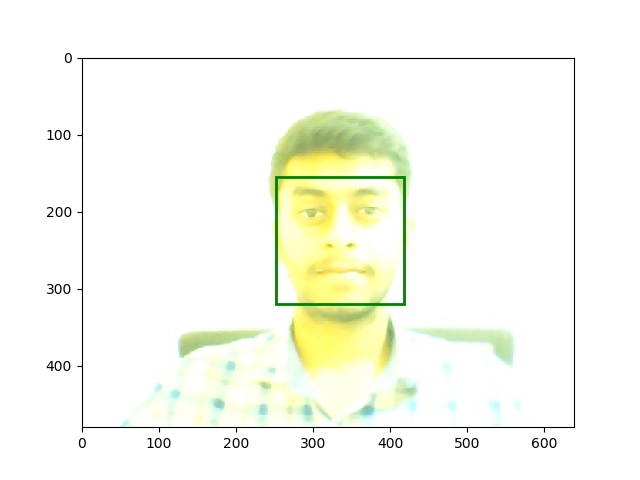
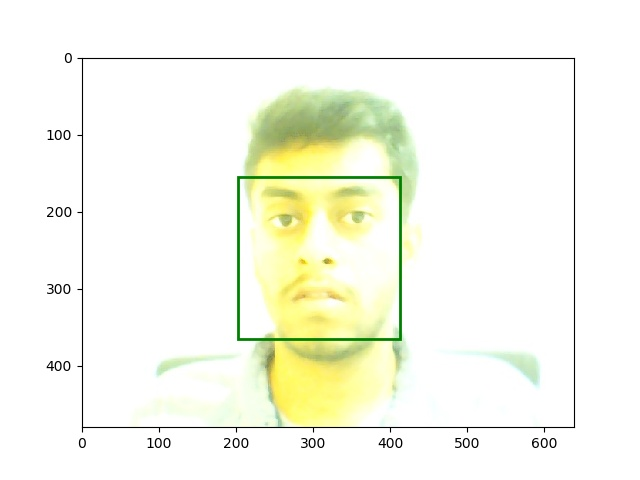
face identify integrated into django and working

diff --git a/mysite/main/templates/main/home.html b/mysite/main/templates/main/home.html
@@ -7,21 +7,29 @@
     <script src="https://cdnjs.cloudflare.com/ajax/libs/materialize/1.0.0/js/materialize.min.js"></script>
             
     <nav>
-        <div class="nav-wrapper">
-        <a href="#" class="brand-logo">Microsoft-Face</a>
-        <ul id="nav-mobile" class="right hide-on-med-and-down">
+        <div class="nav-wrapper blue darken-2" co>
+        <a href="#!" class="brand-logo center">Microsoft-Face-Api</a>
+        
             {% if user.is_authenticated %}
-                <li><a href="http://127.0.0.1:8000">home</a></li>
-                <li><a href="http://127.0.0.1:8000/logout">Logout</a></li>
-                <li><a href="http://127.0.0.1:8000/capture">capture</a></li>
-                <li><a href="http://127.0.0.1:8000/detect">detect</a></li>
+            <ul id="nav-mobile" class="left hide-on-med-and-down" >
+                <li ><a href="http://127.0.0.1:8000">Home</a></li>
+                <li ><a href="http://127.0.0.1:8000/capture">Capture</a></li>
+                <li ><a href="http://127.0.0.1:8000/detect">Detect</a></li>
+            </ul>
+            <ul id="nav-mobile" class="right hide-on-med-and-down">
+                <li ><a href="http://127.0.0.1:8000/logout">Logout</a></li>
+            </ul>
             {% else %}
-                <li><a href="http://127.0.0.1:8000/register">Register</a></li>
-                <li><a href="http://127.0.0.1:8000/login">Login</a></li>
+            <ul id="nav-mobile" class="left hide-on-med-and-down">
+                <li ><a href="http://127.0.0.1:8000/login">Login</a></li>
+                <li ><a href="http://127.0.0.1:8000/register">Register</a></li>
+            </ul>
             {% endif %}
-        </ul>
+        
         </div>
     </nav>
+    
+  
     {% if messages %}
         {% for message in messages%}
             {% if message.tags == 'success'%}

diff --git a/mysite/main/templates/main/capture.html b/mysite/main/templates/main/capture.html
@@ -1,12 +1,6 @@
 {% extends "main/home.html" %}
 {% block content %}
-<form method ='post' enctype="multipart/form-data">
-{% csrf_token %}
-<div id="mydiv1">
-    <p>Take picture</p>
-    <!-- <input type="file" name ="document"> -->
 
-</div>
 
 <form action="#" method="get">
     <input type="text" value="8" name="mytextbox" size="1"/>

diff --git a/mysite/main/templates/main/image.html b/mysite/main/templates/main/image.html
@@ -1,0 +1,10 @@
+{% extends "main/home.html" %}
+{% block content %}
+<img src="../../../media/image from button.jpeg" alt="result" width="500" height="333">
+
+
+<form action= 'process/' method ="GET">
+  <button type="submit">submit image</button>
+</form> 
+    {% endblock %}
+    

diff --git a/mysite/main/templates/main/capture2.html b/mysite/main/templates/main/capture2.html
@@ -1,0 +1,10 @@
+{% extends "main/home.html" %}
+{% block content %}
+    <form action= 'image/' method ="GET">
+      <button type="submit">capture image</button>
+    </form>
+
+
+
+    {% endblock %}
+    

diff --git a/mysite/main/templates/main/home2.html b/mysite/main/templates/main/home2.html
@@ -1,0 +1,7 @@
+{% extends "main/home.html" %}
+{% block content %}
+
+<form action= 'image/' method ="GET">
+    <button type="submit">capture image</button>
+  </form>
+  {% endblock %}

diff --git a/mysite/main/templates/main/results.html b/mysite/main/templates/main/results.html
@@ -1,0 +1,6 @@
+{% extends "main/home.html" %}
+
+{% block content %}
+The face is detected {{ detected_faceId }}
+____ The confidence is {{ confidence }}
+  {% endblock %}

diff --git a/mysite/main/templates/main/details.html b/mysite/main/templates/main/details.html
@@ -1,0 +1,2 @@
+{% extends "main/home.html" %}
+<button type="submit">submit image</button>

diff --git a/mysite/main/views.py b/mysite/main/views.py
@@ -10,25 +10,16 @@ import matplotlib.image as mpimg
 import matplotlib.pyplot as plt
 import matplotlib.patches as patches
 from pandas.io.json import json_normalize
+import cognitive_face as cf
 
-
+cf.util.requests.ConnectTimeout = 1
 subscription_key = '0b138b19f25a45379d64a4739b16aaf7'
-
-face_api_url = 'https://southeastasia.api.cognitive.microsoft.com/face/v1.0/detect'
-
-
-headers = {'Content-Type': 'application/octet-stream', 
-           'Ocp-Apim-Subscription-Key': subscription_key}
-    
-params = {
-    'returnFaceId': 'true',
-    'returnFaceLandmarks': 'false',
-    'returnFaceAttributes': 'age,gender,headPose,smile,facialHair,glasses,emotion,hair,makeup,occlusion,accessories,blur,exposure,noise',
-}
-
+base_url = 'https://southeastasia.api.cognitive.microsoft.com/face/v1.0'
+cf.Key.set(subscription_key)
+cf.BaseUrl.set(base_url)
 
 def homepage(request):
-    return render(request,'main/home.html')
+    return render(request,'main/home2.html')
 
 def register(request):
     if request.method == "POST":
@@ -128,3 +119,75 @@ def detect(request):
 
             } 
                 )            
+
+
+#################################################################
+#            Code Under Test
+
+def process(request):
+     if not len(cf.person_group.lists()) == 0:
+         face_detect = cf.face.detect('media/image from button.jpeg')
+         response = cf.face.identify([face_detect[0]['faceId']],person_group_id='group_1')
+         r2 = response[0]['candidates']
+         if len(r2)>0:
+            df_r = json_normalize(r2)
+            print(response)
+            df_r.sort_values('confidence',ascending=False,inplace=True)
+            if df_r['confidence'][0]>0.70:
+                return render(request,'main/results.html',
+                {
+                    'detected_faceId': df_r['personId'][0] ,
+                    'confidence': df_r['confidence'][0]    
+                }            
+                )
+         else:
+
+             # Go to details page
+             messages.error(request,'Please Try again')
+             return render(request,'main/home2.html')
+     else:
+         return render(request,'main/details.html')
+
+def details(request):
+    return render(request,'main/details.html')
+
+def process_old(request):
+    if len(cf.person_group.lists()) == 0:
+        cf.person_group.create(person_group_id='group_1',name='all')
+    else:
+        face_detect = cf.face.detect('media/image from button.jpeg')
+        try:
+            response = cf.face.identify([face_detect[0]['faceId']],person_group_id='group_1')
+            print('responasdasdasdasdnasna-------------------------------')
+            if len(response) >0:
+                r2 = response[0]['candidates']
+                df_r = json_normalize(r2)
+                df_r.sort_values('confidence',ascending=False,inplace=True)
+                print('got a response')
+                return render(request,'main/results.html', 
+                        {
+                            'detected_faceId': df_r['personId'][0] ,
+                            'confidence': df_r['confidence'][0]
+
+                        } 
+                            )    
+        except Exception as e:
+            cf_id = cf.person.create('group_1','nithin')            
+            cf.person.add_face('media/image from button.jpeg','group_1',cf_id['personId'])
+            cf.person_group.train('group_1')
+            print('training done')
+            messages.info(request,'New person detected and trained')
+            return render(request,'main/home2.html')
+
+def results(request):
+    render(request,"main/results.html")
+
+def image(request):
+    print('here')
+    camera = cv2.VideoCapture(0)
+    return_value,image = camera.read()
+    cv2.imwrite('media/image from button.jpeg', image)
+    del camera
+
+    return render(request,'main/image.html')
+#################################################################

diff --git a/mysite/main/urls.py b/mysite/main/urls.py
@@ -28,5 +28,10 @@ urlpatterns = [
     path("login/",views.login_request,name='login'),
     path("capture/",views.capture,name="capture"),
     path("detect/",views.detect,name="detect"),
+    path('image/',views.image,name='click'),
+    path('image/process/',views.process,name='process'),
+    path('results/',views.results,name='results'),
+    path('details/',views.details,name='details'),
+    # path('capture2/image/',views.image,name='image'),
     ]+ static(settings.MEDIA_URL, document_root=settings.MEDIA_ROOT)
 urlpatterns += staticfiles_urlpatterns()
